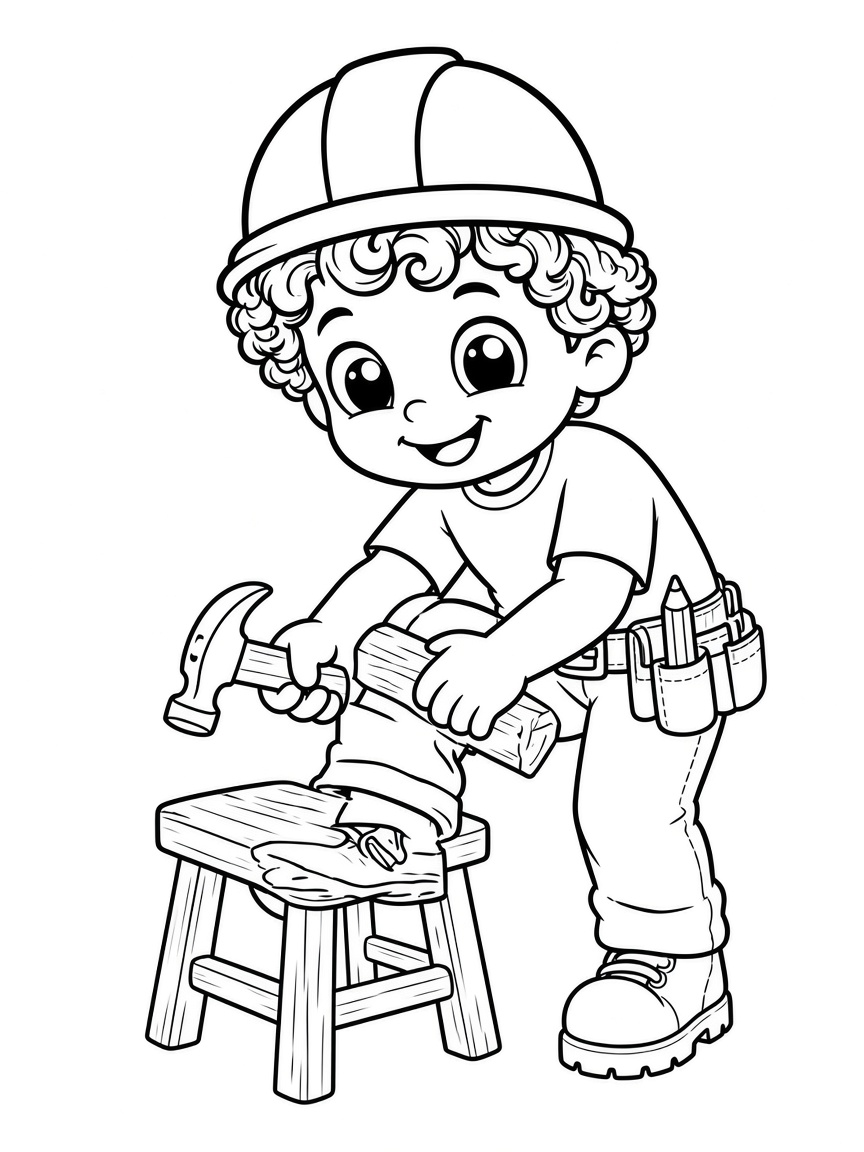
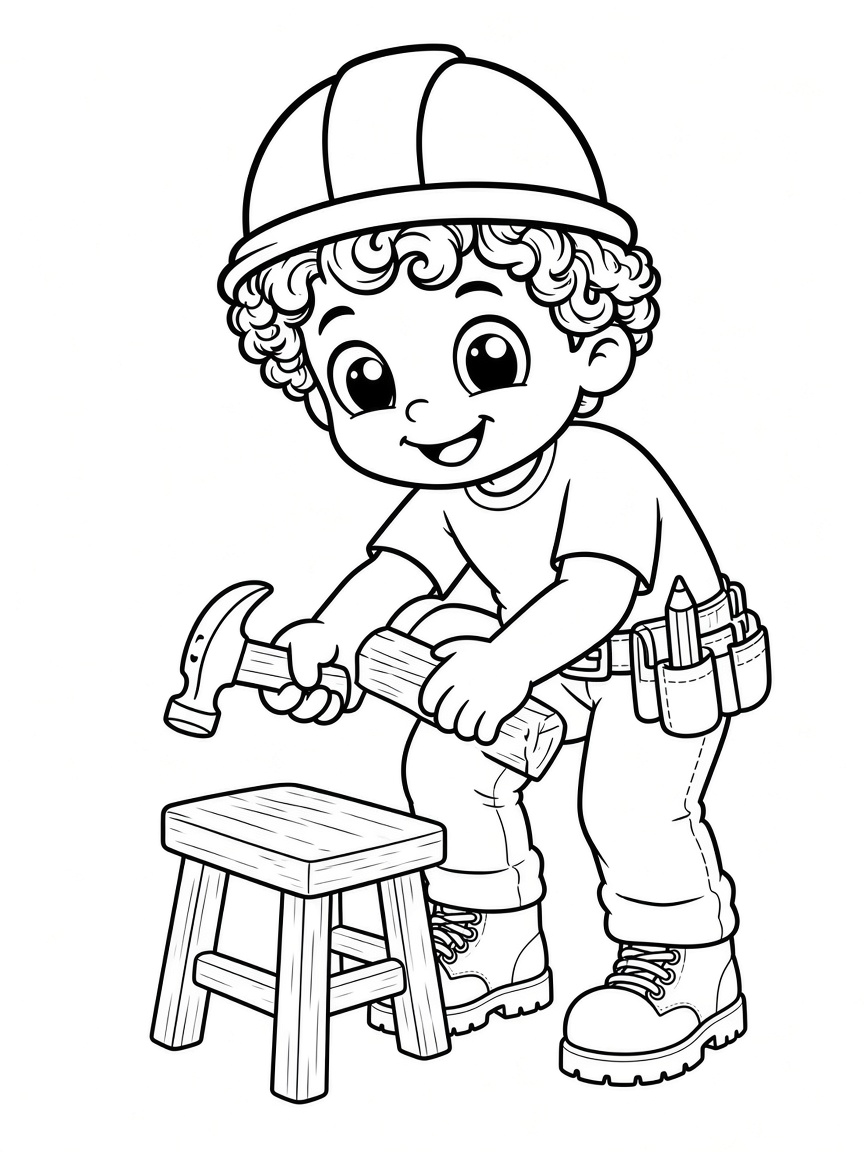
Drop review pages 10, 13, 20, 27, 28. Fix the stool foot.
Both boots now sit on the ground. The melted foot on the seat is gone.

diff --git a/kody-the-carpenter/PAGE-MAP.md b/kody-the-carpenter/PAGE-MAP.md
@@ -8,11 +8,13 @@ Print file: **A5, 50 pages, single-sided** (25 art + 25 blank backs).
 
 ## Review set (use this to pick)
 
-All 31 remade with the new lock: sparse white space, both-cheek dimples in the prompt, five-finger prompt, hat, curls, belt. Folder: `pages/review/`. Old pages stay as backups.
+26 remakes left. Oliver cut 10, 13, 20, 27, 28. Folder: `pages/review/`.
 
 Lock sheet: `references/kody-character-locked-v2.png`
 
-Reply with 25 numbers in book order. Keep, drop, or ask for a redraw.
+Dropped: carpenter’s square, kneeling well, crouch pickup, lemonade stand, fort.
+
+Reply with 25 numbers in book order.
 
 | # | Page | Review file |
 | --- | --- | --- |
@@ -25,30 +27,25 @@ Reply with 25 numbers in book order. Keep, drop, or ask for a redraw.
 | 7 | Level | `pages/review/r07-level.png` |
 | 8 | Safety | `pages/review/r08-safety.png` |
 | 9 | Carry boards | `pages/review/r09-carry.png` |
-| 10 | Carpenter’s square | `pages/review/r10-square.png` |
 | 11 | Picnic table | `pages/review/r11-picnic.png` |
 | 12 | Well, shingles on ladder | `pages/review/r12-well-ladder.png` |
-| 13 | Well, kneeling | `pages/review/r13-well-kneel.png` |
 | 14 | Doghouse | `pages/review/r14-doghouse.png` |
 | 15 | Fence | `pages/review/r15-fence.png` |
 | 16 | Set a post | `pages/review/r16-post.png` |
 | 17 | Window trim | `pages/review/r17-trim.png` |
 | 18 | Cabinets | `pages/review/r18-cabinets.png` |
 | 19 | Clean up | `pages/review/r19-cleanup.png` |
-| 20 | Crouch, pick up a board | `pages/review/r20-crouch.png` |
 | 21 | Birdhouse | `pages/review/r21-birdhouse.png` |
 | 22 | Planter | `pages/review/r22-planter.png` |
 | 23 | Stool | `pages/review/r23-stool.png` |
 | 24 | Picture frame | `pages/review/r24-frame.png` |
 | 25 | Toy box | `pages/review/r25-toybox.png` |
 | 26 | Bookshelf | `pages/review/r26-bookshelf.png` |
-| 27 | Lemonade stand | `pages/review/r27-lemonade.png` |
-| 28 | Fort | `pages/review/r28-fort.png` |
 | 29 | Pegboard | `pages/review/r29-pegboard.png` |
 | 30 | Your turn | `pages/review/r30-your-turn.png` |
 | 31 | High five | `pages/review/r31-highfive.png` |
 
-Honest: dimples are stronger on the lock sheet than on every action page. Hands still slip to four fingers when gripping tools. Say which numbers to redraw.
+Page 23 foot fix: both boots on the ground. No blob on the seat.
 
 ---
 

diff --git a/kody-the-carpenter/README.md b/kody-the-carpenter/README.md
@@ -12,7 +12,7 @@ This folder is the design kit for the book. Use it to keep every page looking li
 - `TOOLS.md` — free ways to generate more character options
 - `pages/opening/` — first 8 colouring pages
 - `pages/builds/` — picnic table (15), well with ladder and shingles (18), extras (doghouse, well kneel, fence, post, trim, cabinets)
-- `pages/review/` — 31 remakes for Oliver to pick 25 from. New lock: `references/kody-character-locked-v2.png`
+- `pages/review/` — remakes for Oliver to pick 25 from (10, 13, 20, 27, 28 cut). New lock: `references/kody-character-locked-v2.png`
 - `references/source/` — user jobsite sheets (do not copy bricklaying or duplicates)
 - `references/kody-character-locked.png` — locked look (option D, five-digit hands)
 - `references/kody-crouch-pickup.png` — action pose study (crouch, pick up a board)
@@ -34,7 +34,7 @@ This folder is the design kit for the book. Use it to keep every page looking li
 
 ## Drawn so far
 
-Review set of 31 remakes in `pages/review/`. Old pages kept as backups.
+Review set in `pages/review/`. Cut: square, kneeling well, crouch, lemonade, fort. Stool foot fixed.
 
 Still needed: Oliver picks 25 and names keep/redraw. Then his cover photo.
 
